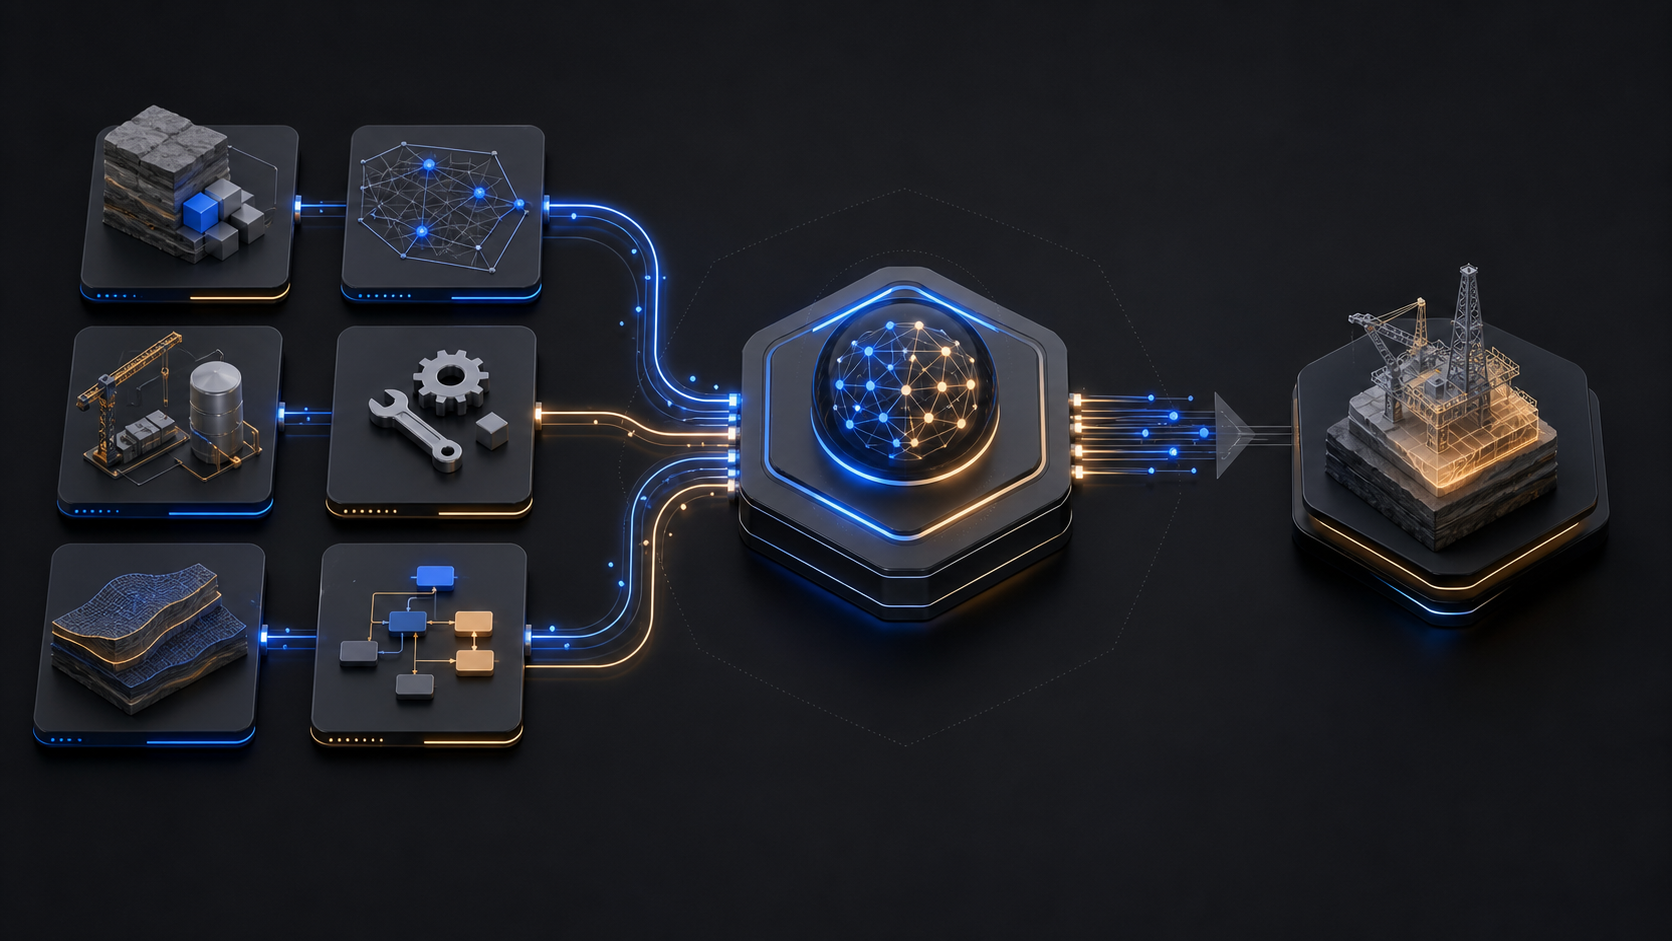
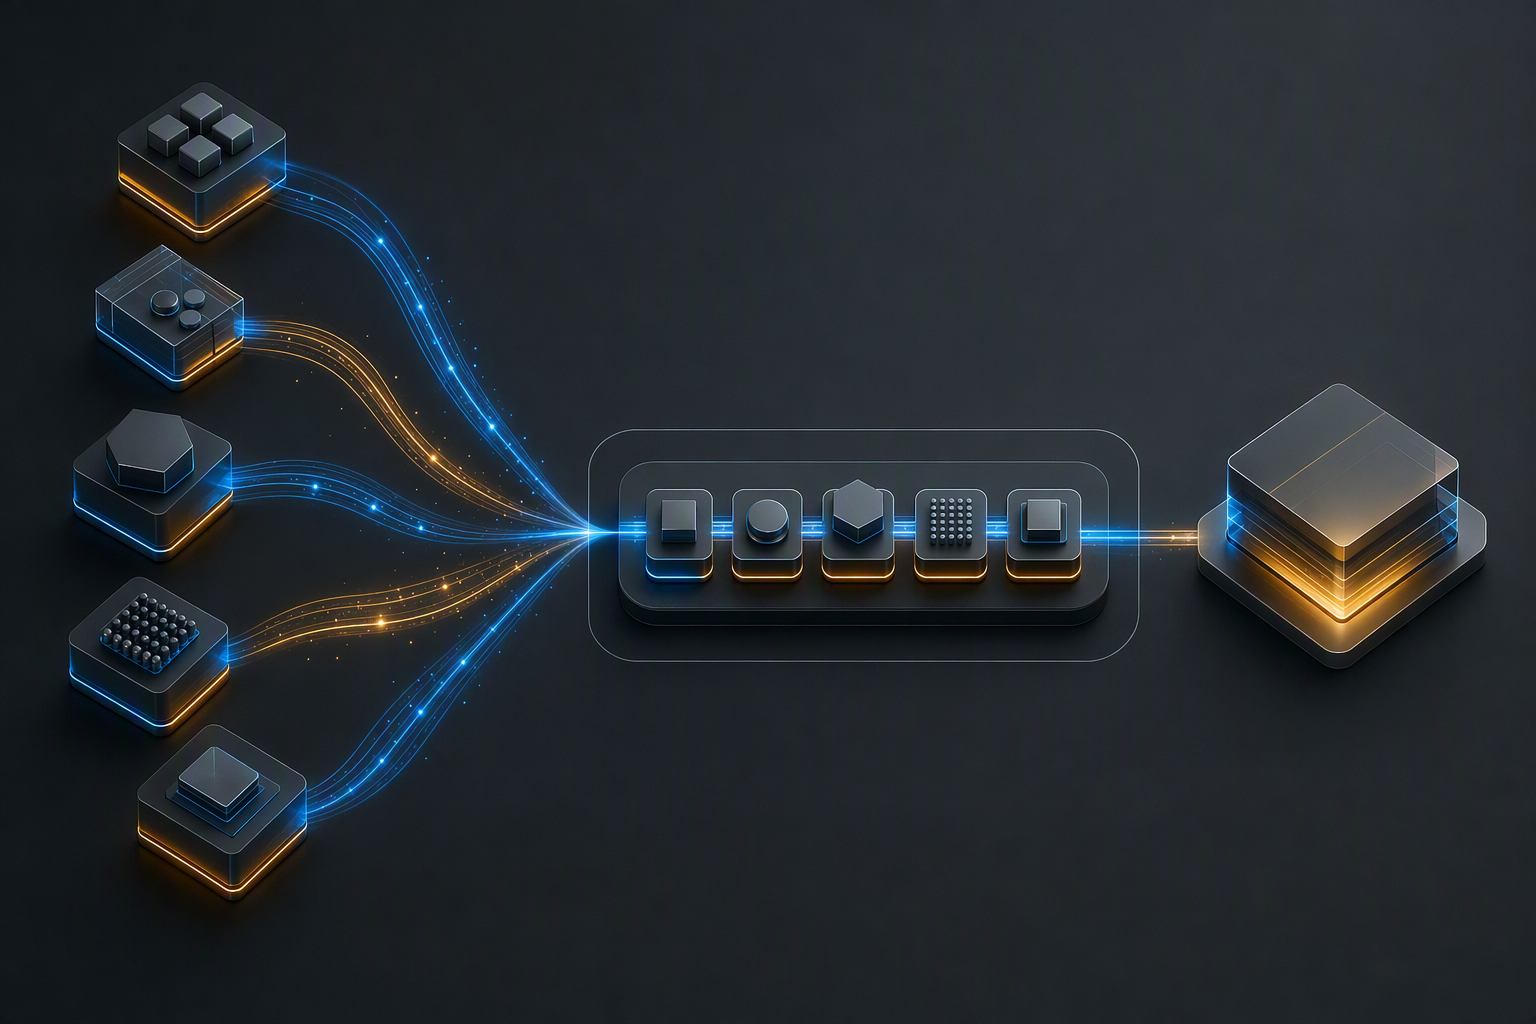
social: replace skills image with gpt image 2 asset

diff --git a/social/images/README.md b/social/images/README.md
@@ -5,6 +5,8 @@ verified product screenshots, and evidence-led visuals. Record the associated
 post and generation/source details; never commit credentials, temporary URLs,
 fake UI, fake metrics, customer logos, or testimonials without approval.
 
-Current asset: `sandbase-skills-workflow-2026-08-23.png` — generated editorial
-visual showing modular workflow blocks converging into an Agent workflow and a
-completed deliverable. No product UI or performance claim is depicted.
+Current asset: `sandbase-skills-workflow-2026-08-23.png` — generated through the
+SandBase API with model `openai/gpt-image-2` (task
+`12eb9a91-a449-454d-bd45-4ec4c46b484b`). It shows modular workflow blocks
+converging into a repeatable Agent workflow and completed deliverable. No
+product UI or performance claim is depicted.

diff --git a/social/logs/2026-08-23.md b/social/logs/2026-08-23.md
@@ -11,7 +11,11 @@
   builder update, both sourced to the public Harness repository.
 - Priority changed: the next publication package is `sandbase-skills`; the
   Harness drafts remain in the queue until this repository is promoted.
-- Images: no durable image asset recorded.
+- Images: one durable `sandbase-skills` asset generated and stored locally.
+- Generated `social/images/sandbase-skills-workflow-2026-08-23.png` through the
+  SandBase API using `openai/gpt-image-2`; task
+  `12eb9a91-a449-454d-bd45-4ec4c46b484b` completed and the PNG was downloaded
+  from the returned media URL.
 
 ## X publications
 
